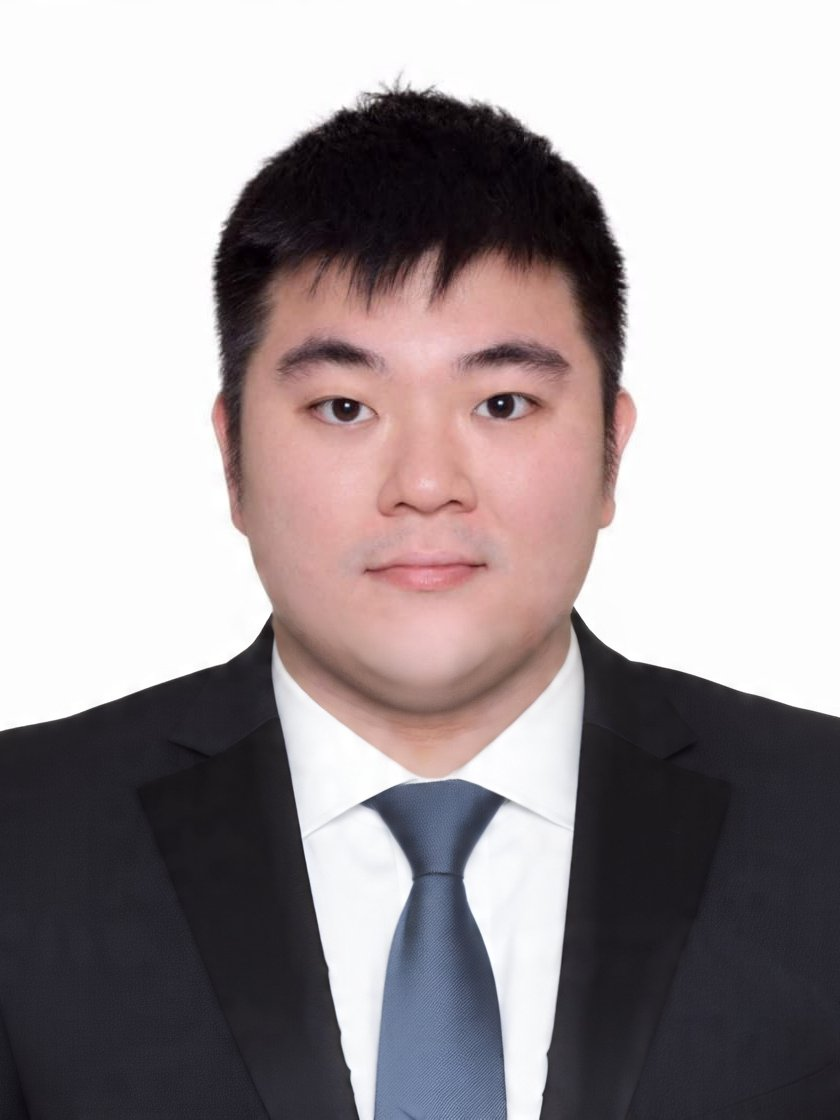
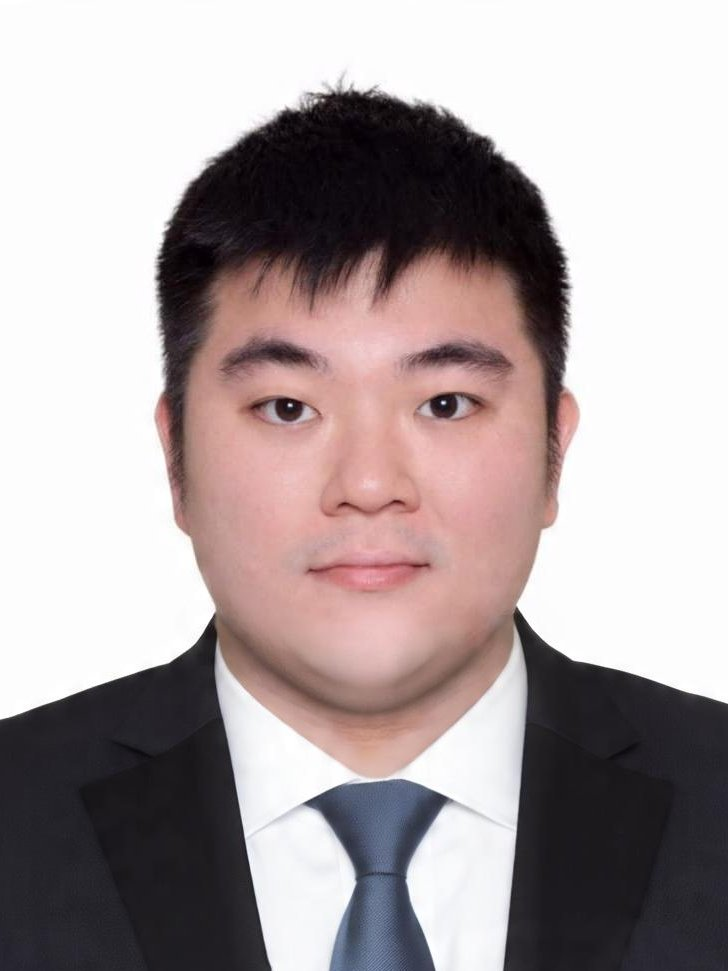
team: precise face-scale/alignment crop for foundation photo (match KASPPG framing)

diff --git a/src/components/TeamClient.tsx b/src/components/TeamClient.tsx
@@ -70,7 +70,7 @@ export default function TeamClient() {
               <div className="team-photo-media lead-media">
                 <picture>
                   <source srcSet="/assets/yayasan-ivan.webp" type="image/webp" />
-                  <img src="/assets/yayasan-ivan.jpg" alt="Gouw Ivan Siswanto S.H, M.TH" width={840} height={1120} loading="lazy" />
+                  <img src="/assets/yayasan-ivan.jpg" alt="Gouw Ivan Siswanto S.H, M.TH" width={728} height={971} loading="lazy" />
                 </picture>
                 <div className="team-photo-cap lead-cap">
                   <span className="team-badge team-badge-alt lead-badge">{t("team.badge.yayasan", dict)}</span>
